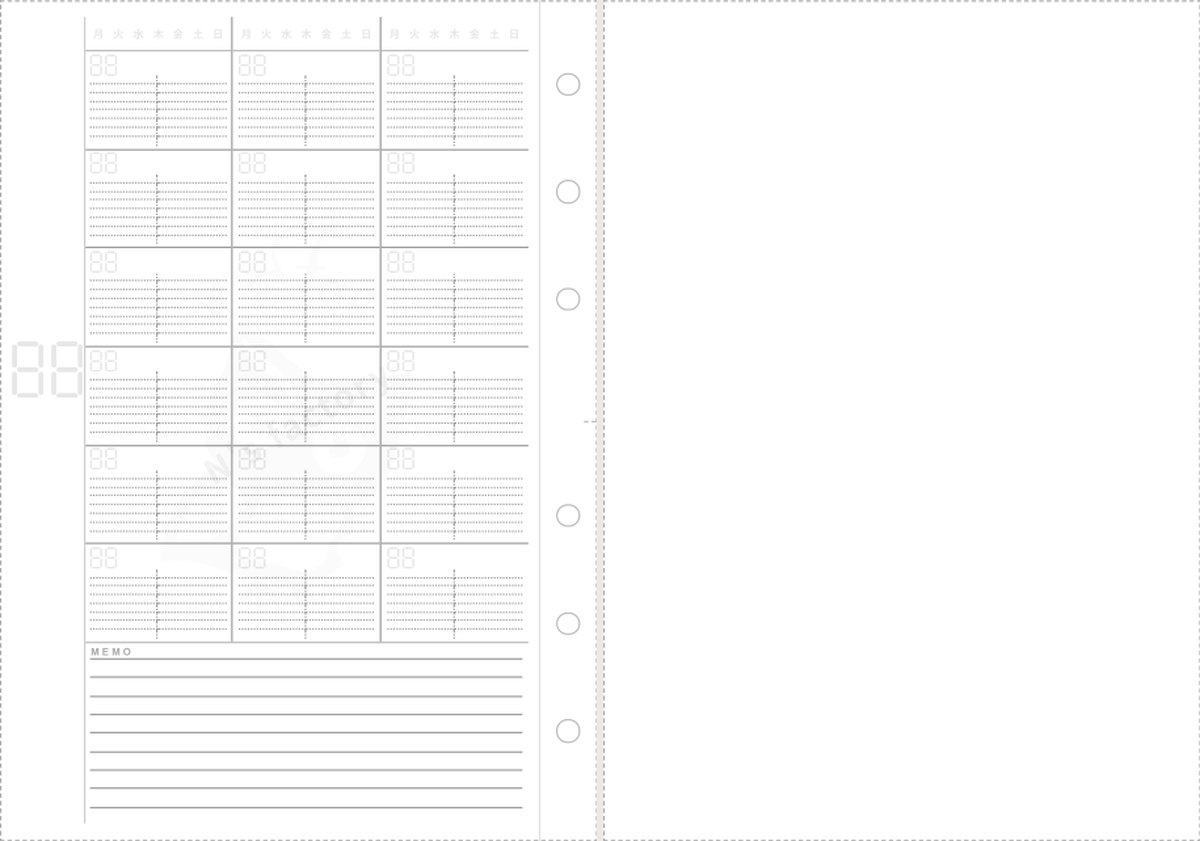
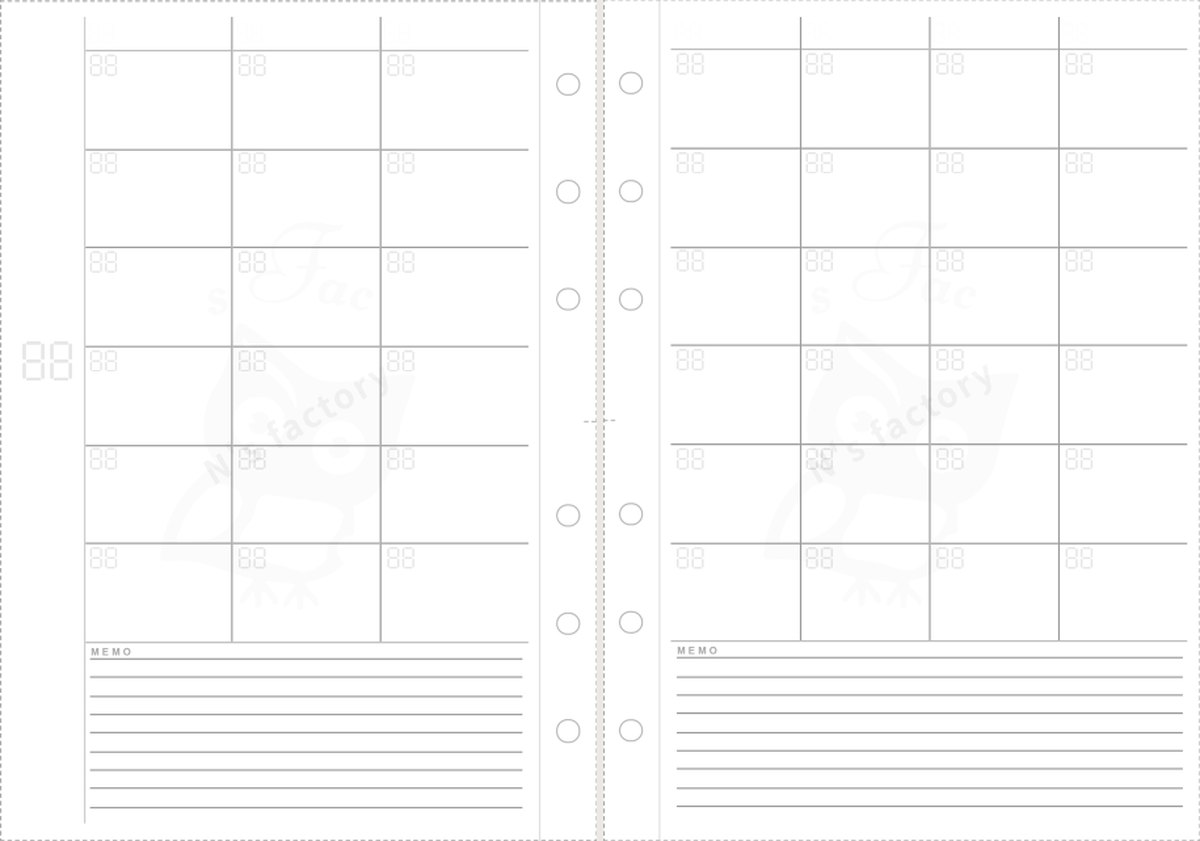
月間ツール6本（日付なし）: マス内の罫線（日マスグリッド）を既定OFF・曜日透かしを7セグ「88」2桁に（英字をなぞる）・左ページ月番号の透かし10→7mm（罫線に被っていた）。販売ページのプレビュー画像を更新

diff --git a/a5-monthly/index.html b/a5-monthly/index.html
@@ -192,6 +192,8 @@ body.panel-open #preview { margin-left: 280px; }
 
 /* === MODULE: 日付なし透かし（7セグ数字・曜日） === */
 .seg-ghost { display: inline-block; color: #000; opacity: var(--ghost-opacity, 0.18); vertical-align: top; }
+.wd-ghost-seg { display: inline-flex; align-items: center; justify-content: center; height: 100%; width: 100%; opacity: 1; }
+.wd-ghost-seg .seg-ghost { height: 3.6mm; }
 .seg-ghost svg { display: block; height: 100%; width: auto; }
 .wd-ghost {
   display: flex; justify-content: space-between; width: 100%; padding: 0 0.6mm;
@@ -213,7 +215,7 @@ body.panel-open #preview { margin-left: 280px; }
   font-size: 10mm; font-weight: 700; line-height: 1;
   font-family: var(--font-sidebar, 'Times New Roman', Times, serif);
 }
-.sidebar-month-num .seg-ghost { height: 10mm; }
+.sidebar-month-num .seg-ghost { height: 7mm; }
 .sidebar-month-name {
   writing-mode: vertical-rl; text-orientation: mixed;
   font-size: 2.5mm; font-weight: 700; letter-spacing: 0.5mm; text-transform: uppercase;
@@ -503,7 +505,7 @@ body.panel-open #preview { margin-left: 280px; }
     </div>
     <div class="btn-row">
       <button class="btn-toggle on" id="btnHoliday" onclick="toggleOpt('showHoliday','btnHoliday')">祝日表示</button>
-      <button class="btn-toggle on" id="btnCellGrid" onclick="toggleOpt('showCellGrid','btnCellGrid')">日マスグリッド</button>
+      <button class="btn-toggle" id="btnCellGrid" onclick="toggleOpt('showCellGrid','btnCellGrid')">日マスグリッド</button>
     </div>
     <div class="btn-row">
       <button class="btn-toggle on" id="btnMonthNum" onclick="toggleOpt('showMonthNum','btnMonthNum')">月</button>
@@ -855,7 +857,7 @@ let opts = {
   showHoles: true, showHoleLine: true, showHoleBisect: true, showCutLine: true,
   showLogo: true, showMonthAbbr: true, showTextWm: true,
   showImgWm: false, showHoliday: true, showTitle: false,
-  showCellGrid: true, cellGridCols: 2, cellGridRows: 8,
+  showCellGrid: false, cellGridCols: 2, cellGridRows: 8,
   showMonthNum: true, showDateNum: true, showDayHeader: true,
   undated: false, ghostStyle: 'seg', ghostWeekday: true, landscape: false
 };
@@ -895,8 +897,8 @@ function segGhostHTML(digits) {
   return `<span class="seg-ghost"><svg viewBox="0 0 ${totalW} ${h}" xmlns="http://www.w3.org/2000/svg" fill="currentColor">${inner}</svg></span>`;
 }
 function weekdayGhostHTML() {
-  const labels = isEN ? WD_EN_1 : WD_JA_MON_FIRST;
-  return `<span class="wd-ghost">${labels.map(l => `<span>${l}</span>`).join('')}</span>`;
+  // 2026-09-16 事業主指示: 7曜を1マスに詰めず、7セグの「88」を置いて英字2文字（MO・TU…）をなぞる方式
+  return `<span class="wd-ghost wd-ghost-seg">${segGhostHTML(2)}</span>`;
 }
 
 // === MODULE: Japanese Holidays ===

diff --git a/a5slim-monthly/index.html b/a5slim-monthly/index.html
@@ -191,6 +191,8 @@ body.panel-open #preview { margin-left: 280px; }
 
 /* === MODULE: 日付なし透かし（7セグ数字・曜日） === */
 .seg-ghost { display: inline-block; color: #000; opacity: var(--ghost-opacity, 0.18); vertical-align: top; }
+.wd-ghost-seg { display: inline-flex; align-items: center; justify-content: center; height: 100%; width: 100%; opacity: 1; }
+.wd-ghost-seg .seg-ghost { height: 3.6mm; }
 .seg-ghost svg { display: block; height: 100%; width: auto; }
 .wd-ghost {
   display: flex; justify-content: space-between; width: 100%; padding: 0 0.6mm;
@@ -212,7 +214,7 @@ body.panel-open #preview { margin-left: 280px; }
   font-size: 10mm; font-weight: 700; line-height: 1;
   font-family: var(--font-sidebar, 'Times New Roman', Times, serif);
 }
-.sidebar-month-num .seg-ghost { height: 10mm; }
+.sidebar-month-num .seg-ghost { height: 7mm; }
 .sidebar-month-name {
   writing-mode: vertical-rl; text-orientation: mixed;
   font-size: 2.5mm; font-weight: 700; letter-spacing: 0.5mm; text-transform: uppercase;
@@ -502,7 +504,7 @@ body.panel-open #preview { margin-left: 280px; }
     </div>
     <div class="btn-row">
       <button class="btn-toggle on" id="btnHoliday" onclick="toggleOpt('showHoliday','btnHoliday')">祝日表示</button>
-      <button class="btn-toggle on" id="btnCellGrid" onclick="toggleOpt('showCellGrid','btnCellGrid')">日マスグリッド</button>
+      <button class="btn-toggle" id="btnCellGrid" onclick="toggleOpt('showCellGrid','btnCellGrid')">日マスグリッド</button>
     </div>
     <div class="btn-row">
       <button class="btn-toggle on" id="btnMonthNum" onclick="toggleOpt('showMonthNum','btnMonthNum')">月</button>
@@ -852,7 +854,7 @@ let opts = {
   showHoles: true, showHoleLine: true, showHoleBisect: true, showCutLine: true,
   showLogo: true, showMonthAbbr: true, showTextWm: true,
   showImgWm: false, showHoliday: true, showTitle: false,
-  showCellGrid: true, cellGridCols: 2, cellGridRows: 8,
+  showCellGrid: false, cellGridCols: 2, cellGridRows: 8,
   showMonthNum: true, showDateNum: true, showDayHeader: true,
   undated: false, ghostStyle: 'seg', ghostWeekday: true, landscape: false
 };
@@ -892,8 +894,8 @@ function segGhostHTML(digits) {
   return `<span class="seg-ghost"><svg viewBox="0 0 ${totalW} ${h}" xmlns="http://www.w3.org/2000/svg" fill="currentColor">${inner}</svg></span>`;
 }
 function weekdayGhostHTML() {
-  const labels = isEN ? WD_EN_1 : WD_JA_MON_FIRST;
-  return `<span class="wd-ghost">${labels.map(l => `<span>${l}</span>`).join('')}</span>`;
+  // 2026-09-16 事業主指示: 7曜を1マスに詰めず、7セグの「88」を置いて英字2文字（MO・TU…）をなぞる方式
+  return `<span class="wd-ghost wd-ghost-seg">${segGhostHTML(2)}</span>`;
 }
 
 // === MODULE: Japanese Holidays ===

diff --git a/a6-monthly/index.html b/a6-monthly/index.html
@@ -191,6 +191,8 @@ body.panel-open #preview { margin-left: 280px; }
 
 /* === MODULE: 日付なし透かし（7セグ数字・曜日） === */
 .seg-ghost { display: inline-block; color: #000; opacity: var(--ghost-opacity, 0.18); vertical-align: top; }
+.wd-ghost-seg { display: inline-flex; align-items: center; justify-content: center; height: 100%; width: 100%; opacity: 1; }
+.wd-ghost-seg .seg-ghost { height: 3.6mm; }
 .seg-ghost svg { display: block; height: 100%; width: auto; }
 .wd-ghost {
   display: flex; justify-content: space-between; width: 100%; padding: 0 0.6mm;
@@ -212,7 +214,7 @@ body.panel-open #preview { margin-left: 280px; }
   font-size: 10mm; font-weight: 700; line-height: 1;
   font-family: var(--font-sidebar, 'Times New Roman', Times, serif);
 }
-.sidebar-month-num .seg-ghost { height: 10mm; }
+.sidebar-month-num .seg-ghost { height: 7mm; }
 .sidebar-month-name {
   writing-mode: vertical-rl; text-orientation: mixed;
   font-size: 2.5mm; font-weight: 700; letter-spacing: 0.5mm; text-transform: uppercase;
@@ -503,7 +505,7 @@ body.panel-open #preview { margin-left: 280px; }
     </div>
     <div class="btn-row">
       <button class="btn-toggle on" id="btnHoliday" onclick="toggleOpt('showHoliday','btnHoliday')">祝日表示</button>
-      <button class="btn-toggle on" id="btnCellGrid" onclick="toggleOpt('showCellGrid','btnCellGrid')">日マスグリッド</button>
+      <button class="btn-toggle" id="btnCellGrid" onclick="toggleOpt('showCellGrid','btnCellGrid')">日マスグリッド</button>
     </div>
     <div class="btn-row">
       <button class="btn-toggle on" id="btnMonthNum" onclick="toggleOpt('showMonthNum','btnMonthNum')">月</button>
@@ -855,7 +857,7 @@ let opts = {
   showHoles: true, showHoleLine: true, showHoleBisect: true, showCutLine: true,
   showLogo: true, showMonthAbbr: true, showTextWm: true,
   showImgWm: false, showHoliday: true, showTitle: false,
-  showCellGrid: true, cellGridCols: 2, cellGridRows: 8,
+  showCellGrid: false, cellGridCols: 2, cellGridRows: 8,
   showMonthNum: true, showDateNum: true, showDayHeader: true,
   undated: false, ghostStyle: 'seg', ghostWeekday: true, landscape: false
 };
@@ -895,8 +897,8 @@ function segGhostHTML(digits) {
   return `<span class="seg-ghost"><svg viewBox="0 0 ${totalW} ${h}" xmlns="http://www.w3.org/2000/svg" fill="currentColor">${inner}</svg></span>`;
 }
 function weekdayGhostHTML() {
-  const labels = isEN ? WD_EN_1 : WD_JA_MON_FIRST;
-  return `<span class="wd-ghost">${labels.map(l => `<span>${l}</span>`).join('')}</span>`;
+  // 2026-09-16 事業主指示: 7曜を1マスに詰めず、7セグの「88」を置いて英字2文字（MO・TU…）をなぞる方式
+  return `<span class="wd-ghost wd-ghost-seg">${segGhostHTML(2)}</span>`;
 }
 
 // === MODULE: Japanese Holidays ===

diff --git a/bible-monthly/index.html b/bible-monthly/index.html
@@ -189,6 +189,8 @@ body.panel-open #preview { margin-left: 280px; }
 
 /* === MODULE: 日付なし透かし（7セグ数字・曜日） === */
 .seg-ghost { display: inline-block; color: #000; opacity: var(--ghost-opacity, 0.18); vertical-align: top; }
+.wd-ghost-seg { display: inline-flex; align-items: center; justify-content: center; height: 100%; width: 100%; opacity: 1; }
+.wd-ghost-seg .seg-ghost { height: 3.6mm; }
 .seg-ghost svg { display: block; height: 100%; width: auto; }
 .wd-ghost {
   display: flex; justify-content: space-between; width: 100%; padding: 0 0.6mm;
@@ -210,7 +212,7 @@ body.panel-open #preview { margin-left: 280px; }
   font-size: 10mm; font-weight: 700; line-height: 1;
   font-family: var(--font-sidebar, 'Times New Roman', Times, serif);
 }
-.sidebar-month-num .seg-ghost { height: 10mm; }
+.sidebar-month-num .seg-ghost { height: 7mm; }
 .sidebar-month-name {
   writing-mode: vertical-rl; text-orientation: mixed;
   font-size: 2.5mm; font-weight: 700; letter-spacing: 0.5mm; text-transform: uppercase;
@@ -501,7 +503,7 @@ body.panel-open #preview { margin-left: 280px; }
     </div>
     <div class="btn-row">
       <button class="btn-toggle on" id="btnHoliday" onclick="toggleOpt('showHoliday','btnHoliday')">祝日表示</button>
-      <button class="btn-toggle on" id="btnCellGrid" onclick="toggleOpt('showCellGrid','btnCellGrid')">日マスグリッド</button>
+      <button class="btn-toggle" id="btnCellGrid" onclick="toggleOpt('showCellGrid','btnCellGrid')">日マスグリッド</button>
     </div>
     <div class="btn-row">
       <button class="btn-toggle on" id="btnMonthNum" onclick="toggleOpt('showMonthNum','btnMonthNum')">月</button>
@@ -855,7 +857,7 @@ let opts = {
   showHoles: true, showHoleLine: true, showHoleBisect: true, showCutLine: true,
   showLogo: true, showMonthAbbr: true, showTextWm: true,
   showImgWm: false, showHoliday: true, showTitle: false,
-  showCellGrid: true, cellGridCols: 2, cellGridRows: 8,
+  showCellGrid: false, cellGridCols: 2, cellGridRows: 8,
   showMonthNum: true, showDateNum: true, showDayHeader: true,
   undated: false, ghostStyle: 'seg', ghostWeekday: true, landscape: false
 };
@@ -895,8 +897,8 @@ function segGhostHTML(digits) {
   return `<span class="seg-ghost"><svg viewBox="0 0 ${totalW} ${h}" xmlns="http://www.w3.org/2000/svg" fill="currentColor">${inner}</svg></span>`;
 }
 function weekdayGhostHTML() {
-  const labels = isEN ? WD_EN_1 : WD_JA_MON_FIRST;
-  return `<span class="wd-ghost">${labels.map(l => `<span>${l}</span>`).join('')}</span>`;
+  // 2026-09-16 事業主指示: 7曜を1マスに詰めず、7セグの「88」を置いて英字2文字（MO・TU…）をなぞる方式
+  return `<span class="wd-ghost wd-ghost-seg">${segGhostHTML(2)}</span>`;
 }
 
 // === MODULE: Japanese Holidays ===

diff --git a/micro5-monthly/index.html b/micro5-monthly/index.html
@@ -193,6 +193,8 @@ body.panel-open #preview { margin-left: 280px; }
 
 /* === MODULE: 日付なし透かし（7セグ数字・曜日） === */
 .seg-ghost { display: inline-block; color: #000; opacity: var(--ghost-opacity, 0.18); vertical-align: top; }
+.wd-ghost-seg { display: inline-flex; align-items: center; justify-content: center; height: 100%; width: 100%; opacity: 1; }
+.wd-ghost-seg .seg-ghost { height: 3.6mm; }
 .seg-ghost svg { display: block; height: 100%; width: auto; }
 .wd-ghost {
   display: flex; justify-content: space-between; width: 100%; padding: 0 0.6mm;
@@ -214,7 +216,7 @@ body.panel-open #preview { margin-left: 280px; }
   font-size: 10mm; font-weight: 700; line-height: 1;
   font-family: var(--font-sidebar, 'Times New Roman', Times, serif);
 }
-.sidebar-month-num .seg-ghost { height: 10mm; }
+.sidebar-month-num .seg-ghost { height: 7mm; }
 .sidebar-month-name {
   writing-mode: vertical-rl; text-orientation: mixed;
   font-size: 2.5mm; font-weight: 700; letter-spacing: 0.5mm; text-transform: uppercase;
@@ -505,7 +507,7 @@ body.panel-open #preview { margin-left: 280px; }
     </div>
     <div class="btn-row">
       <button class="btn-toggle on" id="btnHoliday" onclick="toggleOpt('showHoliday','btnHoliday')">祝日表示</button>
-      <button class="btn-toggle on" id="btnCellGrid" onclick="toggleOpt('showCellGrid','btnCellGrid')">日マスグリッド</button>
+      <button class="btn-toggle" id="btnCellGrid" onclick="toggleOpt('showCellGrid','btnCellGrid')">日マスグリッド</button>
     </div>
     <div class="btn-row">
       <button class="btn-toggle on" id="btnMonthNum" onclick="toggleOpt('showMonthNum','btnMonthNum')">月</button>
@@ -857,7 +859,7 @@ let opts = {
   showHoles: true, showHoleLine: true, showHoleBisect: true, showCutLine: true,
   showLogo: true, showMonthAbbr: true, showTextWm: true,
   showImgWm: false, showHoliday: true, showTitle: false,
-  showCellGrid: true, cellGridCols: 2, cellGridRows: 8,
+  showCellGrid: false, cellGridCols: 2, cellGridRows: 8,
   showMonthNum: true, showDateNum: true, showDayHeader: true,
   undated: false, ghostStyle: 'seg', ghostWeekday: true, landscape: false
 };
@@ -897,8 +899,8 @@ function segGhostHTML(digits) {
   return `<span class="seg-ghost"><svg viewBox="0 0 ${totalW} ${h}" xmlns="http://www.w3.org/2000/svg" fill="currentColor">${inner}</svg></span>`;
 }
 function weekdayGhostHTML() {
-  const labels = isEN ? WD_EN_1 : WD_JA_MON_FIRST;
-  return `<span class="wd-ghost">${labels.map(l => `<span>${l}</span>`).join('')}</span>`;
+  // 2026-09-16 事業主指示: 7曜を1マスに詰めず、7セグの「88」を置いて英字2文字（MO・TU…）をなぞる方式
+  return `<span class="wd-ghost wd-ghost-seg">${segGhostHTML(2)}</span>`;
 }
 
 // === MODULE: Japanese Holidays ===

diff --git a/mini6-monthly/index.html b/mini6-monthly/index.html
@@ -191,6 +191,8 @@ body.panel-open #preview { margin-left: 280px; }
 
 /* === MODULE: 日付なし透かし（7セグ数字・曜日） === */
 .seg-ghost { display: inline-block; color: #000; opacity: var(--ghost-opacity, 0.18); vertical-align: top; }
+.wd-ghost-seg { display: inline-flex; align-items: center; justify-content: center; height: 100%; width: 100%; opacity: 1; }
+.wd-ghost-seg .seg-ghost { height: 3.6mm; }
 .seg-ghost svg { display: block; height: 100%; width: auto; }
 .wd-ghost {
   display: flex; justify-content: space-between; width: 100%; padding: 0 0.6mm;
@@ -212,7 +214,7 @@ body.panel-open #preview { margin-left: 280px; }
   font-size: 10mm; font-weight: 700; line-height: 1;
   font-family: var(--font-sidebar, 'Times New Roman', Times, serif);
 }
-.sidebar-month-num .seg-ghost { height: 10mm; }
+.sidebar-month-num .seg-ghost { height: 7mm; }
 .sidebar-month-name {
   writing-mode: vertical-rl; text-orientation: mixed;
   font-size: 2.5mm; font-weight: 700; letter-spacing: 0.5mm; text-transform: uppercase;
@@ -503,7 +505,7 @@ body.panel-open #preview { margin-left: 280px; }
     </div>
     <div class="btn-row">
       <button class="btn-toggle on" id="btnHoliday" onclick="toggleOpt('showHoliday','btnHoliday')">祝日表示</button>
-      <button class="btn-toggle on" id="btnCellGrid" onclick="toggleOpt('showCellGrid','btnCellGrid')">日マスグリッド</button>
+      <button class="btn-toggle" id="btnCellGrid" onclick="toggleOpt('showCellGrid','btnCellGrid')">日マスグリッド</button>
     </div>
     <div class="btn-row">
       <button class="btn-toggle on" id="btnMonthNum" onclick="toggleOpt('showMonthNum','btnMonthNum')">月</button>
@@ -857,7 +859,7 @@ let opts = {
   showHoles: true, showHoleLine: true, showHoleBisect: true, showCutLine: true,
   showLogo: true, showMonthAbbr: true, showTextWm: true,
   showImgWm: false, showHoliday: true, showTitle: false,
-  showCellGrid: true, cellGridCols: 2, cellGridRows: 8,
+  showCellGrid: false, cellGridCols: 2, cellGridRows: 8,
   showMonthNum: true, showDateNum: true, showDayHeader: true,
   undated: false, ghostStyle: 'seg', ghostWeekday: true, landscape: false
 };
@@ -897,8 +899,8 @@ function segGhostHTML(digits) {
   return `<span class="seg-ghost"><svg viewBox="0 0 ${totalW} ${h}" xmlns="http://www.w3.org/2000/svg" fill="currentColor">${inner}</svg></span>`;
 }
 function weekdayGhostHTML() {
-  const labels = isEN ? WD_EN_1 : WD_JA_MON_FIRST;
-  return `<span class="wd-ghost">${labels.map(l => `<span>${l}</span>`).join('')}</span>`;
+  // 2026-09-16 事業主指示: 7曜を1マスに詰めず、7セグの「88」を置いて英字2文字（MO・TU…）をなぞる方式
+  return `<span class="wd-ghost wd-ghost-seg">${segGhostHTML(2)}</span>`;
 }
 
 // === MODULE: Japanese Holidays ===
